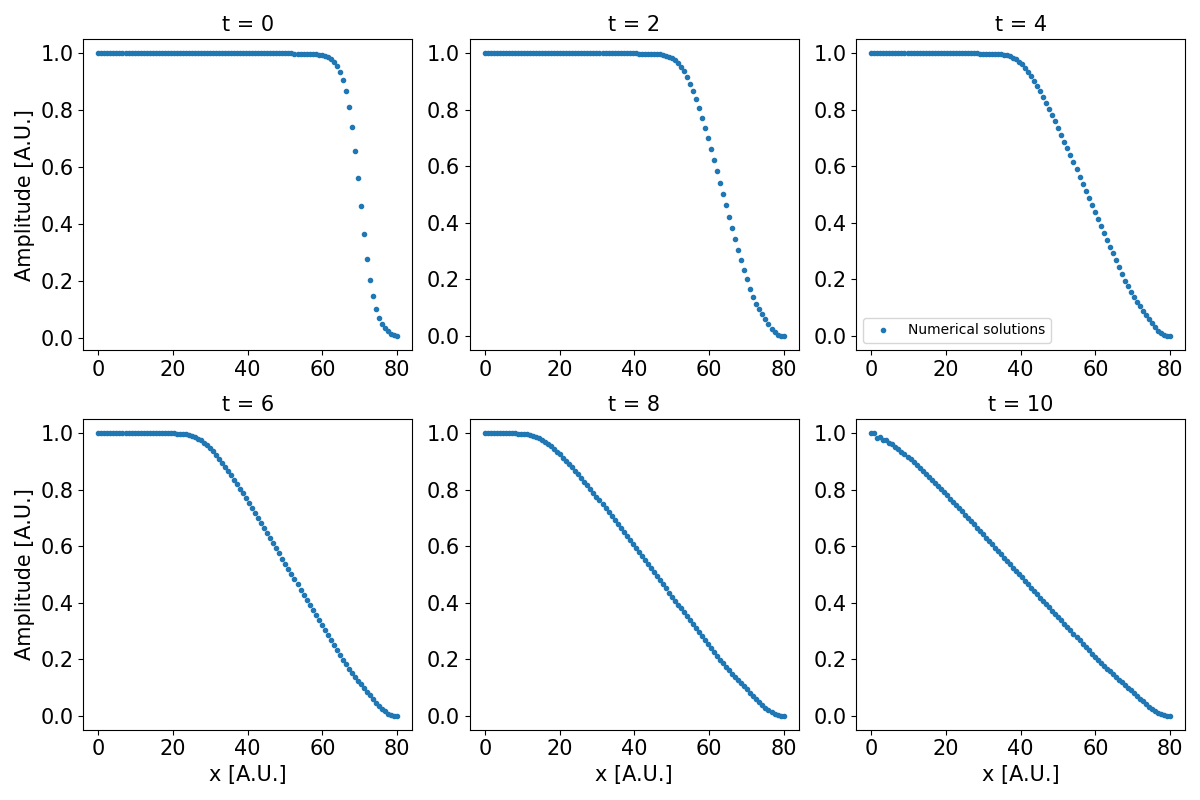
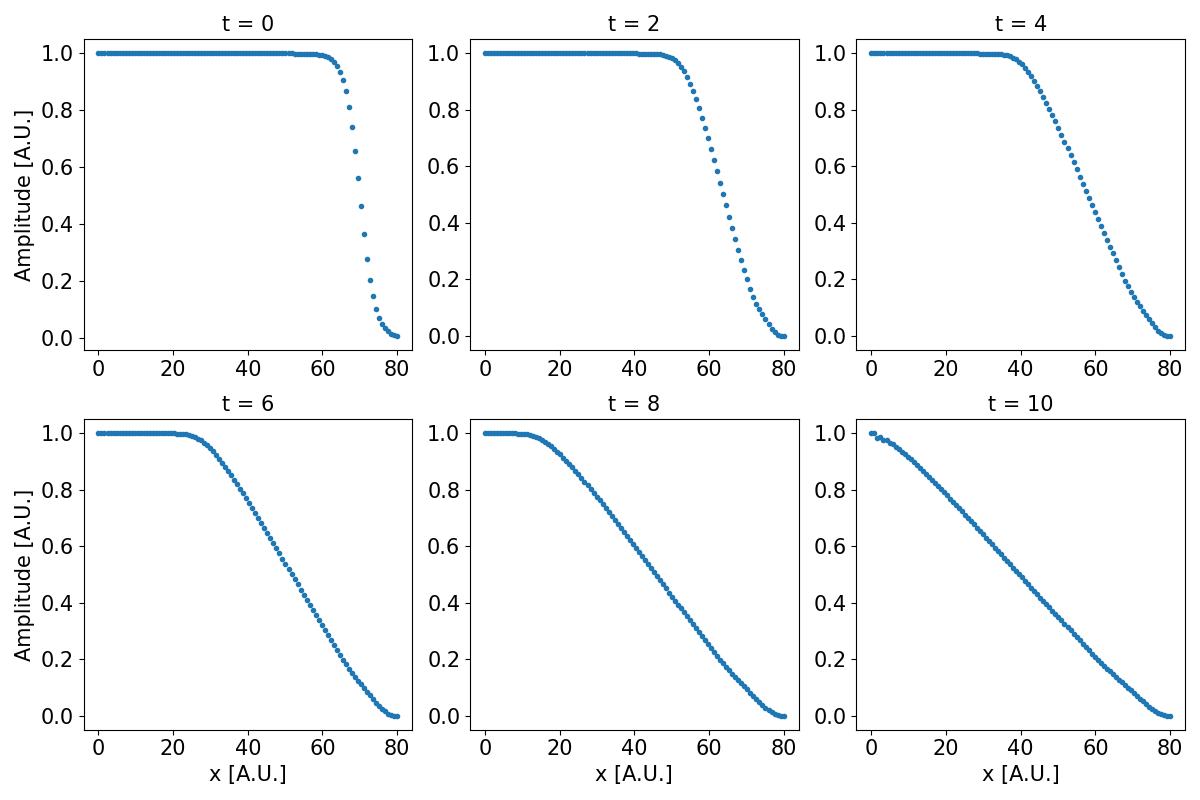
Legend fontsize

diff --git a/test.py b/test.py
@@ -1,36 +1,66 @@
 from solver import KdV_Solver
-from soliton_plot import soliton_solution
+from soliton_plot import *
 import numpy as np
 
-# Set tolerance for testing
-tol = 1e-3
 
-# Define constants
-Delta_x = 0.2                  # Spatial step size
-X_max = 40                     # System length
-x_size = int(X_max / Delta_x)  # Number of spatial steps
+## UNIT TESTS:
+def test_sech_symmetry():
+    x_values = np.array([-1.0, 0.0, 1.0, 2.0], dtype=np.float64)
+    for x in x_values:
+        assert np.isclose(sech(x), sech(-x), atol=1e-6), f"sech({x}) != sech({-x})"
 
-Delta_t = 0.001                # Time step size
-T_max = 20                     # Maximum time
-t_size = int(T_max / Delta_t)  # Number of time steps
 
-# Initialize the solution array
-u = np.zeros([x_size, t_size], dtype=float)
+def test_no_change_with_zero_coefficients():
+    # Initialize a simple wave
+    x_size, t_size = 10, 5
+    u = np.random.rand(x_size, t_size)  # Random initial condition
+    
+    # Solve with zero coefficients
+    result = KdV_Solver(u.copy(), mu=0, eps=0)
 
-# Initial condition
-x_series = np.linspace(0, X_max, x_size)  # Array of positions
-t_0 = 10                                 # Initial time
-u[:, 0] = np.array([soliton_solution(x, t_0) for x in x_series])  # Soliton at t=0
+    # The result should match the initial condition
+    np.testing.assert_array_almost_equal(
+        result[:, 0], u[:, 0], 
+        decimal=6,
+        err_msg="Wave should remain unchanged when mu=0 and eps=0"
+        )
 
-# Compute the numerical solution
-u_solution = KdV_Solver(u, Delta_x, Delta_t)
 
-# Define time series for plotting and testing
-T_series = range(0, 6,1)
+
+
+
+
+### FUNCTIONAL TEST ###
 
 
 # Test function
 def test_squared_residuals():
+        # Set tolerance for testing
+    tol = 1e-3
+
+    # Define constants
+    Delta_x = 0.2                  # Spatial step size
+    X_max = 40                     # System length
+    x_size = int(X_max / Delta_x)  # Number of spatial steps
+
+    Delta_t = 0.001                # Time step size
+    T_max = 20                     # Maximum time
+    t_size = int(T_max / Delta_t)  # Number of time steps
+
+    # Initialize the solution array
+    u = np.zeros([x_size, t_size], dtype=float)
+
+    # Initial condition
+    x_series = np.linspace(0, X_max, x_size)  # Array of positions
+    t_0 = 10                                 # Initial time
+    u[:, 0] = np.array([soliton_solution(x, t_0) for x in x_series])  # Soliton at t=0
+
+    # Compute the numerical solution
+    u_solution = KdV_Solver(u, Delta_x, Delta_t)
+
+    # Define time series for plotting and testing
+    T_series = range(0, 6,1)
+
     for t in T_series[1:]:  # Skip the initial time step (t=0)
         numerical = u_solution[:, int(t / Delta_t)]
         analytical = np.array([soliton_solution(x, t + t_0) for x in x_series])

diff --git a/solitons_comparison_plot.py b/solitons_comparison_plot.py
@@ -35,12 +35,13 @@ for i, ax in enumerate(axes.flat):
         if i == 3 or i == 4 or i == 5:
             ax.set_xlabel('x [A.U.]', fontsize = 15)
         if i==2:
-            ax.legend()
+            ax.legend(fontsize=14)
         if i == 0 or i == 3:
             ax.set_ylabel('Amplitude [A.U.]', fontsize = 15)
         
         # Ticks font size
         ax.tick_params(axis='both', labelsize=15)  
+        ax.set_ylim(-0.51,0.2)
 
 # To prevent overlap
 plt.tight_layout()
@@ -66,16 +67,16 @@ for i, ax in enumerate(axes.flat):
         # Axes label
         ax.set_xlabel('x [A.U.]', fontsize = 15)
         if i==2:
-            ax.legend()
+            ax.legend(fontsize=14)
         ax.set_ylabel('Amplitude [A.U.]', fontsize = 15)
         
         # Ticks font size
         ax.tick_params(axis='both', labelsize=15)  
 
-        ax.set_ylim(-0.2,0.05)
+        ax.set_ylim(-0.2,0.1)
 
 # To prevent overlap
 plt.tight_layout()
 plt.savefig("Figures//solitons_convergence.png")
-plt.show()
+
 plt.clf()

diff --git a/solitons_comparison.py b/solitons_comparison.py
@@ -15,9 +15,9 @@ t_size = int(T_max / Delta_t)  # Number of time steps
 
 # Initialize solution array
 u = np.zeros([x_size, t_size], dtype=float)
-
+edge_off_set=5
 # Initialize start condition
-x_series = np.linspace(0, X_max, x_size)  # Positions
+x_series = np.linspace(-edge_off_set, X_max-edge_off_set, x_size)  # Positions
 x0 = 10                                  # Initial space
 u[:, 0] = np.array([soliton_solution(x,t=0, x0=x0) for x in x_series])  # Soliton at t0
 

diff --git a/advection_plot.py b/advection_plot.py
@@ -26,7 +26,7 @@ for i, ax in enumerate(axes.flat):
         if i == 3 or i == 4 or i == 5:
             ax.set_xlabel('x [A.U.]', fontsize = 15)
         if i==2:
-            ax.legend()
+            ax.legend(fontsize=14)
         if i == 0 or i == 3:
             ax.set_ylabel('Amplitude [A.U.]', fontsize = 15)
         

diff --git a/double_solitons_plot.py b/double_solitons_plot.py
@@ -23,8 +23,7 @@ for i, ax in enumerate(axes.flat):
         # Axes label
         if i == 3 or i == 4 or i == 5:
             ax.set_xlabel('x [A.U.]', fontsize = 15)
-        if i==2:
-            ax.legend()
+
         if i == 0 or i == 3:
             ax.set_ylabel('Amplitude [A.U.]', fontsize = 15)
         

diff --git a/burgers_plot.py b/burgers_plot.py
@@ -23,8 +23,6 @@ for i, ax in enumerate(axes.flat):
         # Axes label
         if i == 3 or i == 4 or i == 5:
             ax.set_xlabel('x [A.U.]', fontsize = 15)
-        if i==2:
-            ax.legend()
         if i == 0 or i == 3:
             ax.set_ylabel('Amplitude [A.U.]', fontsize = 15)
         

diff --git a/kink_plot.py b/kink_plot.py
@@ -23,8 +23,6 @@ for i, ax in enumerate(axes.flat):
         # Axes label
         if i == 3 or i == 4 or i == 5:
             ax.set_xlabel('x [A.U.]', fontsize = 15)
-        if i==2:
-            ax.legend()
         if i == 0 or i == 3:
             ax.set_ylabel('Amplitude [A.U.]', fontsize = 15)
         
